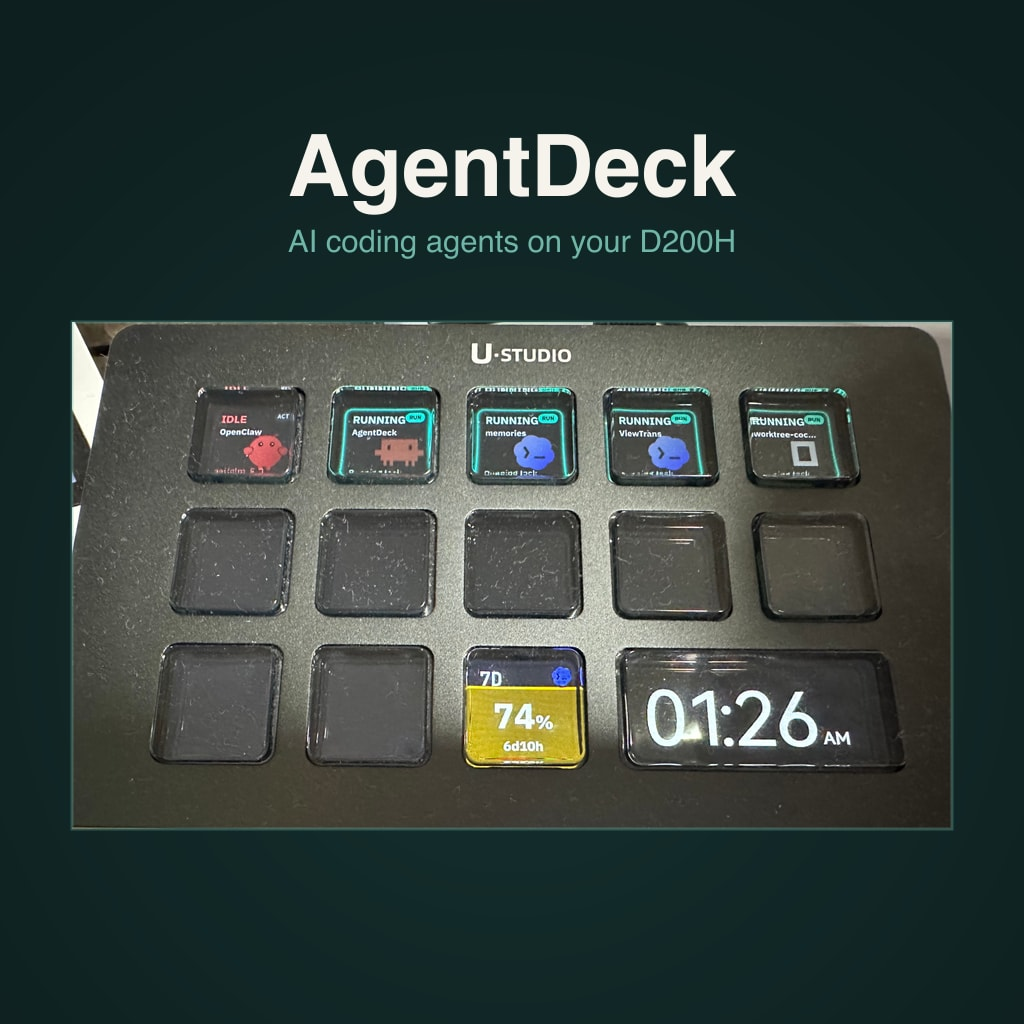
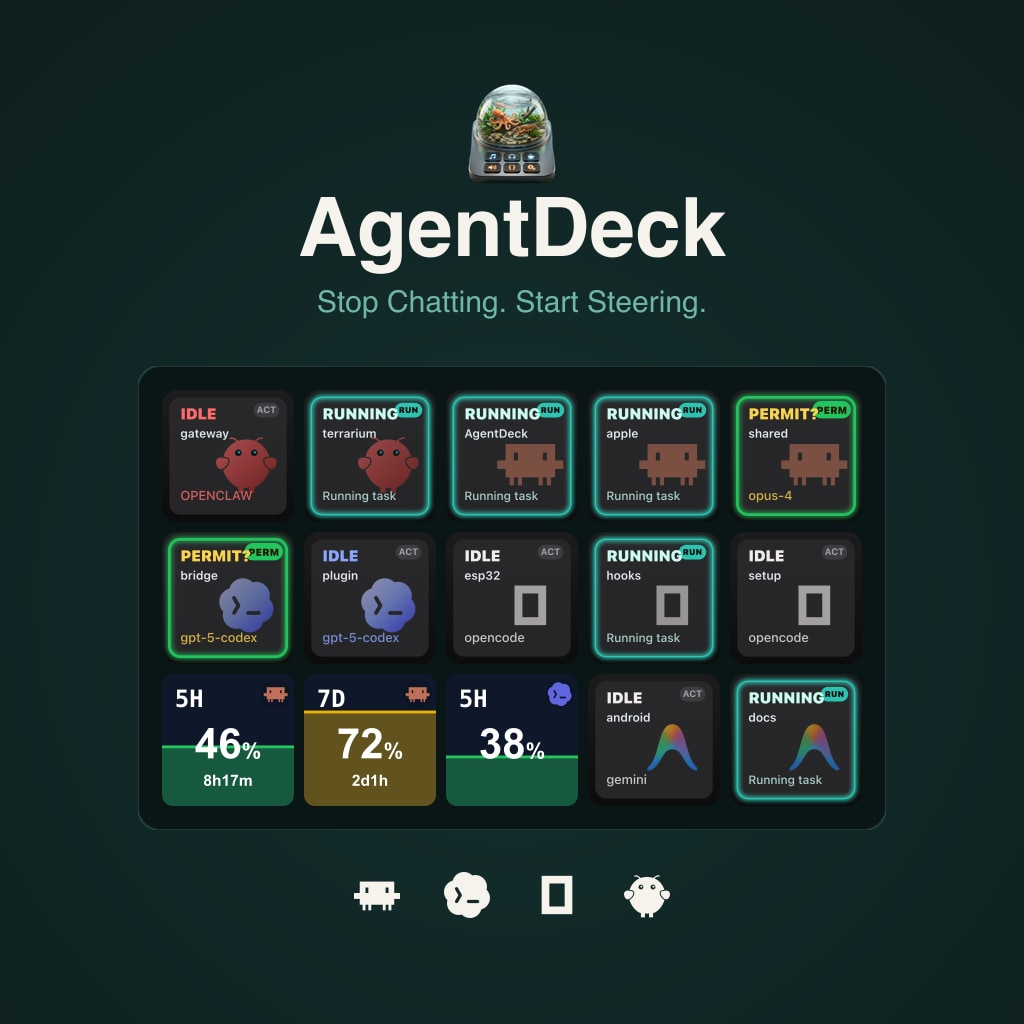
feat(ulanzi): render marketplace media from the canonical deck renderers
banner-01 was the soft asset in the carousel, and for two compounding reasons:
its source (docs/media/d200h-app.png, 964x590) was drawn at 1020px — a 1.06x
UPscale — and that 1020px filled only 53% of the 1920 canvas. No amount of
recomposition fixes a 964px source.

So stop screenshotting the deck. buildSessionDeck's slots are viewBox SVG, so
rasterising them at 268px/key yields a pixel-crisp 1472x906 deck face with no
resolution ceiling at all — and it is real renderer output rather than a capture
of one (DESIGN.md R7).

Fixture bugs found while wiring it up, both silent:
  - parseState reads fiveHourPercent/sevenDayPercent/codexRateLimits off the
    event ROOT. Nesting them under `usage` yielded zero usage tiles, leaving
    three keys blank with no error.
  - The agent marks paint with fill="currentColor", which resolves to BLACK when
    the SVG is rasterised standalone — the row was invisible against the ink
    canvas. Tint via a root `color` attribute (recolour, never redraw — R6).

Cover now composes three canonical sources (brand mark + live deck face + the
four upstream agent marks) instead of one centred photo, and twelve sessions
across five agent types fill every key the usage strip leaves free.

banner-03 fills the previously-empty optional slot with the macOS dashboard, but
crops above the timeline pane and fades the cut: at storefront size those rows
are legible real project chatter, and a marketplace banner republishes it far
[…]

diff --git a/marketplace/ulanzi/LISTING.md b/marketplace/ulanzi/LISTING.md
@@ -15,7 +15,7 @@ asset spec. Two things the form does NOT tell you up front are recorded below.
 | Cover image | yes | **1:1 for plugins** | `marketplace/ulanzi/1.0.0/cover-1024x1024.jpg` |
 | Banner 01 | yes | 3:2 | `marketplace/ulanzi/1.0.0/banner-01-1920x1280.jpg` |
 | Banner 02 | optional | 3:2 | `marketplace/ulanzi/1.0.0/banner-02-1920x1280.jpg` |
-| Banner 03 | optional | 3:2 | — not supplied |
+| Banner 03 | optional | 3:2 | `marketplace/ulanzi/1.0.0/banner-03-1920x1280.jpg` |
 
 Regenerate with `node scripts/generate-ulanzi-marketplace-assets.mjs`.
 
@@ -23,8 +23,8 @@ Regenerate with `node scripts/generate-ulanzi-marketplace-assets.mjs`.
 
 The form shows `2:1` until the main file is uploaded and recognised as a plugin,
 then flips to `1:1`: "플러그인 커버는 UlanziStudio MarketPlace용으로 1:1 비율을
-사용합니다." **Upload the zip first, then read the cover requirement.** The 2:1
-`cover-1920x960.jpg` is kept for non-plugin surfaces and is not what we submit.
+사용합니다." **Upload the zip first, then read the cover requirement.** Only the
+1:1 file is generated; there is no 2:1 variant to pick up by mistake.
 
 If no cover is supplied the portal auto-fills one from the plugin's own
 `resources/icons/plugin.png`, so an empty-looking slot is not actually empty.
@@ -360,17 +360,28 @@ AgentDeck es un proyecto independiente, sin afiliación con los terceros mencion
 
 ## Gallery sources
 
-Built from high-resolution captures so nothing is upscaled:
+Nothing is upscaled. The deck face is not screenshotted at all — it is rendered
+from the canonical `buildSessionDeck` slots, which are viewBox SVG and therefore
+rasterise crisp at any size (DESIGN.md R7). That replaced the previous
+`d200h-app.png` composite, a 964×590 capture drawn at 1020px — a 1.06× upscale
+that also filled only 53% of the 1920 canvas, making it the soft one in the
+carousel.
 
 | File | Source |
 |---|---|
-| `cover-1024x1024.jpg` | `docs/media/d200h-hero.jpg` — 4032×3024 photo of the deck |
-| `banner-01-1920x1280.jpg` | `docs/media/d200h-app.png` — Ulanzi Studio render, crisper type than a photo |
-| `banner-02-1920x1280.jpg` | `docs/media/d200h-hero.jpg`, framed on the whole deck |
+| `cover-1024x1024.jpg` | `buildSessionDeck` @132px/key + `design/brand/agentdeck-icon.png` + the four upstream agent marks |
+| `banner-01-1920x1280.jpg` | `buildSessionDeck` @268px/key — 77% of canvas width |
+| `banner-02-1920x1280.jpg` | `docs/media/d200h-hero.jpg` 4032×3024, framed on the whole deck (0.53× downscale) |
+| `banner-03-1920x1280.jpg` | `docs/media/macos-dashboard.png` 2362×1430, timeline pane cropped (0.71× downscale) |
 
-Imagery is deliberately D200H-only. Desk shots that also contain an Elgato
-Stream Deck were tried and rejected — a competitor's device reading as the most
-legible thing in frame does not belong on Ulanzi's own storefront.
+Photographic imagery is deliberately D200H-only. Desk shots that also contain an
+Elgato Stream Deck were tried and rejected — a competitor's device reading as the
+most legible thing in frame does not belong on Ulanzi's own storefront.
+
+**banner-03 privacy note.** The macOS capture's bottom quarter is the live
+timeline, and at storefront size its rows are legible real project chatter. The
+generator crops above the timeline and fades the cut, so the banner carries only
+the terrarium, session list, and quota gauges. Do not re-crop it taller.
 
 ## Release notes (v1.0.0)
 

diff --git a/apple/APP_REVIEW_NOTES.md b/apple/APP_REVIEW_NOTES.md
@@ -217,7 +217,7 @@ Evaluation defaults to on-device Apple Intelligence Foundation Models — no net
 
 All hardware integrations are optional (Stream Deck+ additionally needs Elgato's software); reviewers can skip them and the rest of the app is unaffected.
 
-Contact: [email redacted]
+Contact: [email redacted]
 ```
 
 <!-- notes-field:end -->